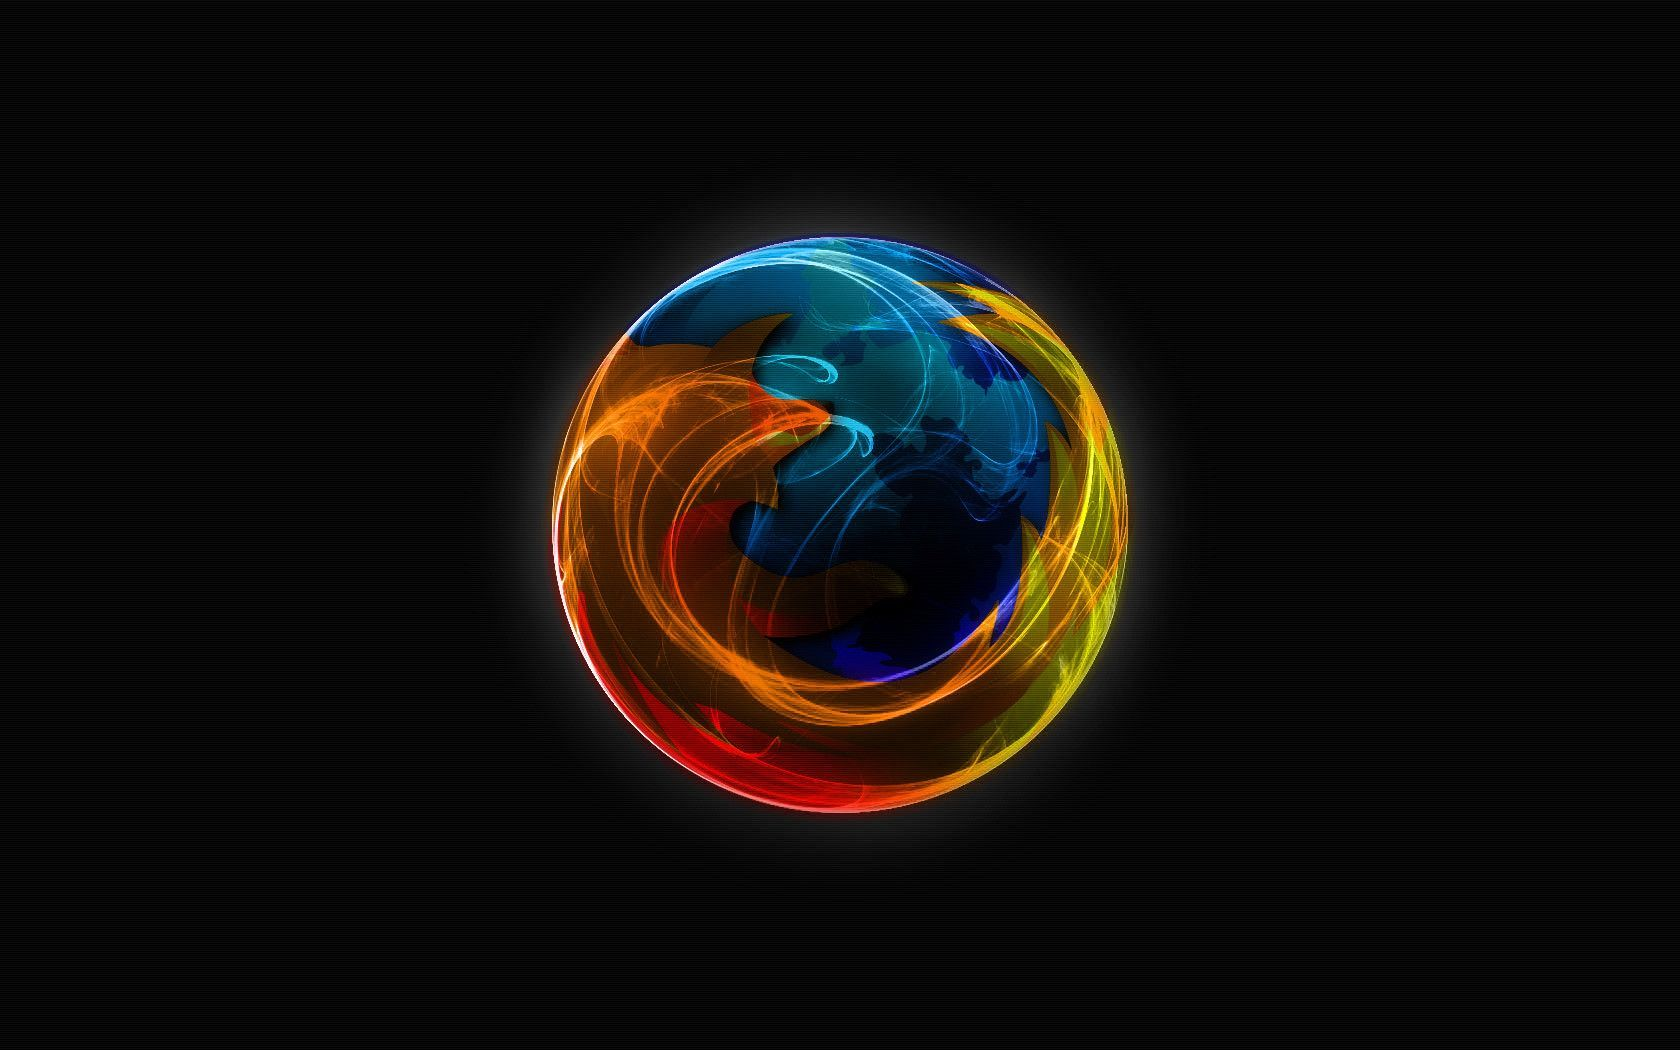
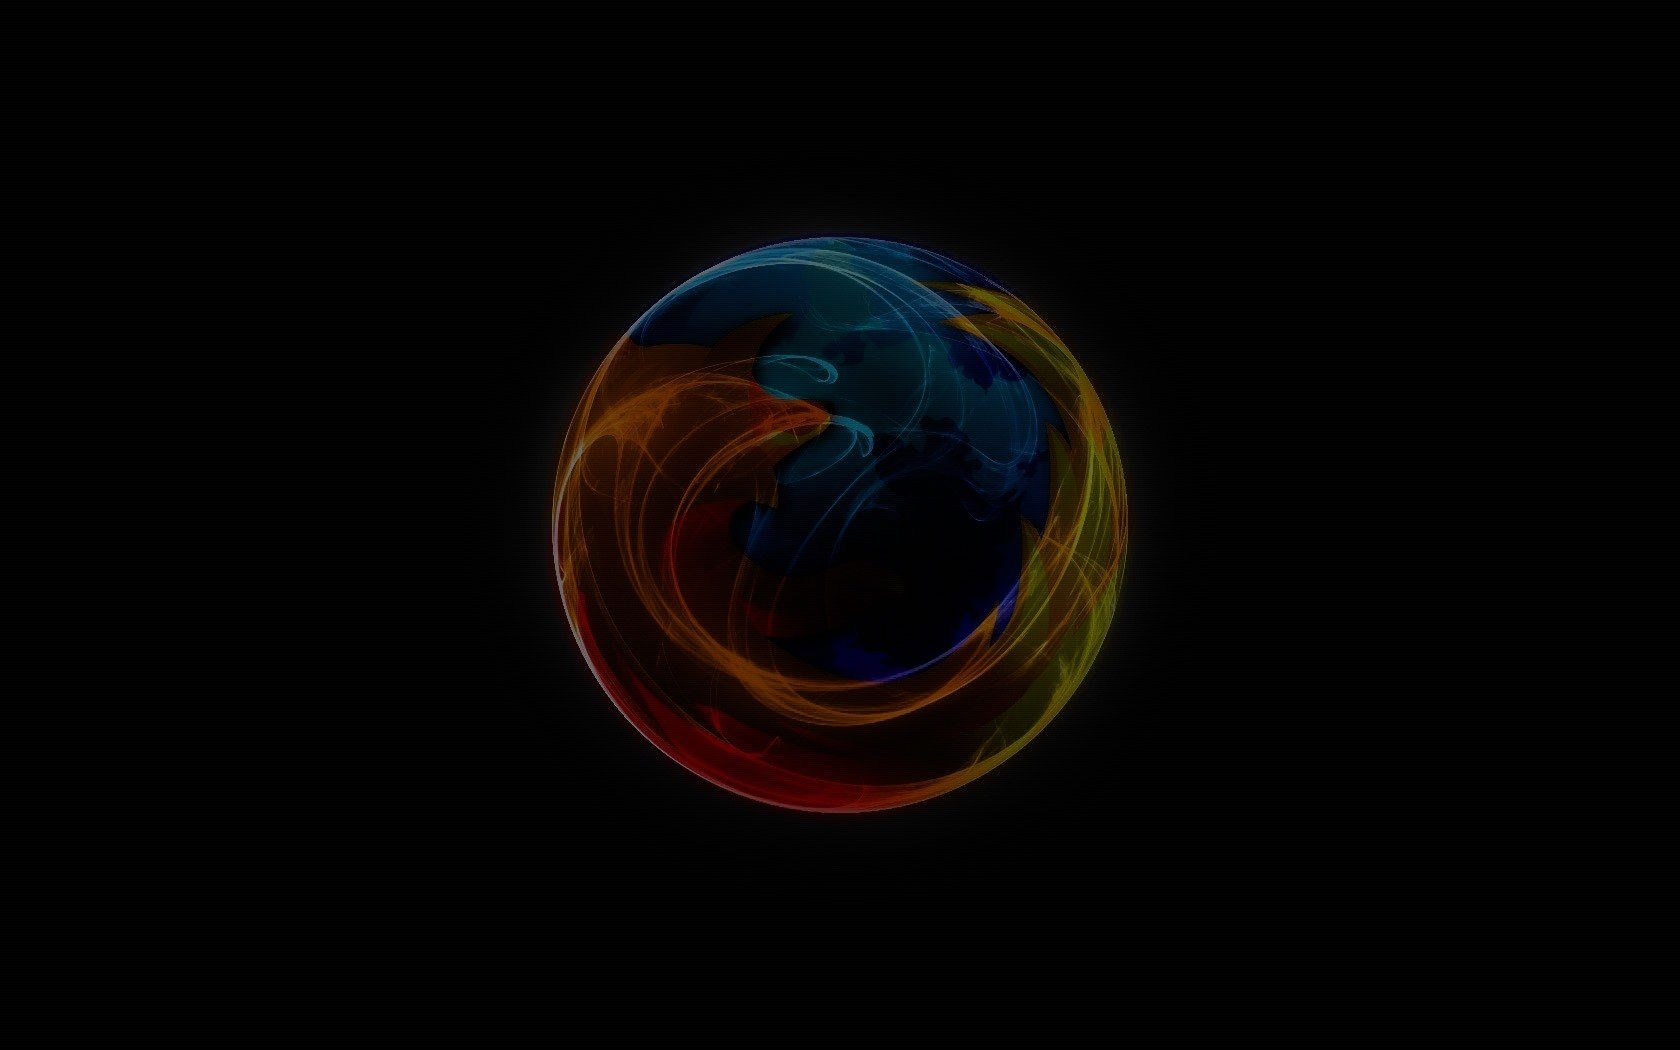
hasal daily progress UI v2.0

Changed region(s): [[0.3095, 0.1829, 0.681, 0.7924]]

diff --git a/template/daily_progress_all.html b/template/daily_progress_all.html
@@ -14,14 +14,12 @@
         <table class="chart">
             <tr>
                 <th rowspan="2"></th>
-                <th colspan="2">Trigger Time</th>
+                <th colspan="2" rowspan="2">Trigger Time</th>
                 <th rowspan="2">Suite Name</th>
                 <th colspan="2">Windows7</th>
                 <th colspan="2">Windows10</th>
             </tr>
             <tr>
-                <th>Hour</th>
-                <th>Minute</th>
                 <th>firefox</th>
                 <th>chrome</th>
                 <th>firefox</th>
@@ -31,7 +29,7 @@
         </table>
 
         <div class="row_date">
-            <div class="date_left">Latest data: {{LATEST_DATA_TIME}}</div>
+            <div class="date_left">Nightly Build: {{LATEST_DATA_TIME}}</div>
             <div class="date_right">Refresh: {{REFRESH_TIME}}</div>
         </div>
     </div>

diff --git a/template/css/daily_progress.css b/template/css/daily_progress.css
@@ -57,7 +57,7 @@ body,html {
 
 table, th,td {
     border: 1px solid;
-    /*border-color: #737373;*/
+    /*border-color: rgba(255, 255, 255, .5);*/
     border-color: transparent;
     color: #ffffff;
     font-size: 18px;

diff --git a/dashboard.py b/dashboard.py
@@ -192,7 +192,7 @@ class Dashboard(object):
                 self.hasal_ds[_s][_m][_b][_t].append(_v)
 
     def copy_img(self):
-        img_set = ["d2_bkg.jpg", "d1_bkg.jpg", "d3_bkg.jpg"]
+        img_set = ["d2_bkg.jpg", "d1_bkg.jpg", "d3_bkg.jpg", "d4_bkg.jpg", "d5_bkg.jpg"]
         for img in img_set:
             copyfile(os.path.join(TEMPLATE_DIR, IMG_DIR, img), os.path.join(BUILD_DIR, IMG_DIR, img))
 
@@ -384,34 +384,84 @@ class Dashboard(object):
                 else:
                     outfile.write(row)
 
-    def get_suite_color(self, count):
-        color = {'red': '#ff0000', 'green': '#00ff00', 'yellow': '#ffff00'}
-        if count >= 6:
-            ret = color['green']
-        elif count <= 0:
-            ret = color['red']
+    def in_time_range_2(self, t1, t2, rt):
+        if t1 == t2:
+            ret = True
         else:
-            ret = color['yellow']
+            t1_H = int(t1[:2])
+            t1_M = int(t1[2:])
+            t2_H = int(t2[:2])
+            t2_M = int(t2[2:])
+            rt_H = int(rt[:2])
+            rt_M = int(rt[2:])
+
+            if t1_H > t2_H or (t1_H == t2_H and t1_M > t2_M):
+                cross_date = True
+            else:
+                cross_date = False
+
+            if rt_H == t1_H and rt_M >= t1_M:
+                ret = True
+            elif rt_H == t2_H and rt_M < t2_M:
+                ret = True
+            elif cross_date and (rt_H > t1_H or rt_H < t2_H):
+                ret = True
+            elif not cross_date and (rt_H > t1_H and rt_H < t2_H):
+                ret = True
+            else:
+                ret = False
         return ret
 
-    def is_under_execution(self, suite):
+    def get_suite_color(self, count, suite):
+        color = {'red': '#ff0000', 'green': '#00ff00', 'yellow': '#ffff00'}
+        check_dict = {"0330":3, "1530":6}
+        now_HM = datetime.datetime.now().strftime("%H%M")
+        s1_HM = task_schedule[suite][0]
+        s2_HM = task_schedule[suite][1]
+
+        # task_schedule[suite][0]
+        if self.in_time_range_2(check_dict.keys()[0], s1_HM, now_HM):
+            standard = 0
+        elif self.in_time_range_2(s1_HM, s2_HM, now_HM):
+            standard = 3
+        else:
+            standard = 6
+
+        if count >= standard:
+            ret = color['green']
+        elif count < standard and count > 0:
+            ret = color['yellow']
+        else:
+            ret = color['red']
+        return ret
+
+    def in_time_range(self, t):
+        """ Input 0730 as time and check if in the duration"""
         now = datetime.datetime.now()
         now_H = now.hour
         now_M = now.minute
-
         ret = False
-        for t in task_schedule[suite]:
-            if int(now_H) == int(t[:2]) and ret == False:
-                if t[2:] == '00':
-                    if int(now_M) < 30 and int(now_M) >= 0:
-                        ret = True
-                    else:
-                        ret = False
+        if int(now_H) == int(t[:2]):
+            if t[2:] == '00':
+                if int(now_M) < 30 and int(now_M) >= 0:
+                    ret = True
                 else:
-                    if int(now_M) >= 30 and int(now_M) < 60:
-                        ret = True
-                    else:
-                        ret = False
+                    ret = False
+            else:
+                if int(now_M) >= 30 and int(now_M) < 60:
+                    ret = True
+                else:
+                    ret = False
+        return ret
+
+    def is_under_execution(self, suite):
+        """ Input suite name and check if in under execution """
+        for _tt in task_schedule[suite]:
+            if self.in_time_range(_tt):
+                ret = True
+                break
+            else:
+                ret = False
         return ret
 
     def write_suite_all_row(self, outfile):
@@ -429,19 +479,14 @@ class Dashboard(object):
                     outfile.write('<td rowspan="{}">{}</td>'.format(_rows, _sk))
                     print_sk = False
 
-                # print hour and check if match next
-                if print_hour:
-                    if i < len(s_set)-1 and task_schedule[s_set[i]][0][:2] == task_schedule[s_set[i+1]][0][:2]:
-                        outfile.write('<td rowspan="2">{},{}</td>'.format(task_schedule[s_set[i]][0][:2],task_schedule[s_set[i]][1][:2]))
-                        print_hour = False
+                # print trigger time
+                for _tt in task_schedule[s_set[i]]:
+                    _tth = _tt[:2]
+                    _ttm = _tt[2:]
+                    if self.in_time_range(_tt):
+                        outfile.write('<td style="color: #00ff00">{}:{}</td>'.format(_tth, _ttm))
                     else:
-                        outfile.write('<td>{},{}</td>'.format(task_schedule[s_set[i]][0][:2],task_schedule[s_set[i]][1][:2]))
-                        print_hour = True
-                else:
-                    print_hour = True
-
-                # must print minute
-                outfile.write('<td>{}</td>'.format(task_schedule[s_set[i]][0][2:]))
+                        outfile.write('<td>{}:{}</td>'.format(_tth, _ttm))
 
                 # print suite name also check if execute
                 if self.is_under_execution(s_set[i]):
@@ -455,9 +500,9 @@ class Dashboard(object):
                     for _b in BROWSER_SET:
                         if _rt in self.count_ds[s_set[i]][_m][_b].keys():
                             _val = self.count_ds[s_set[i]][_m][_b][_rt]
-                            outfile.write('<td style="color: {}">{}</td>'.format(self.get_suite_color(_val), _val))
+                            outfile.write('<td style="color: {}">{}</td>'.format(self.get_suite_color(_val, s_set[i]), _val))
                         else:
-                            outfile.write('<td style="color : {}">{}</td>'.format(self.get_suite_color(0), 0))
+                            outfile.write('<td style="color : {}">{}</td>'.format(self.get_suite_color(0, s_set[i]), 0))
                 outfile.write('</tr>')
 
     def create_suite_progress_all(self):
